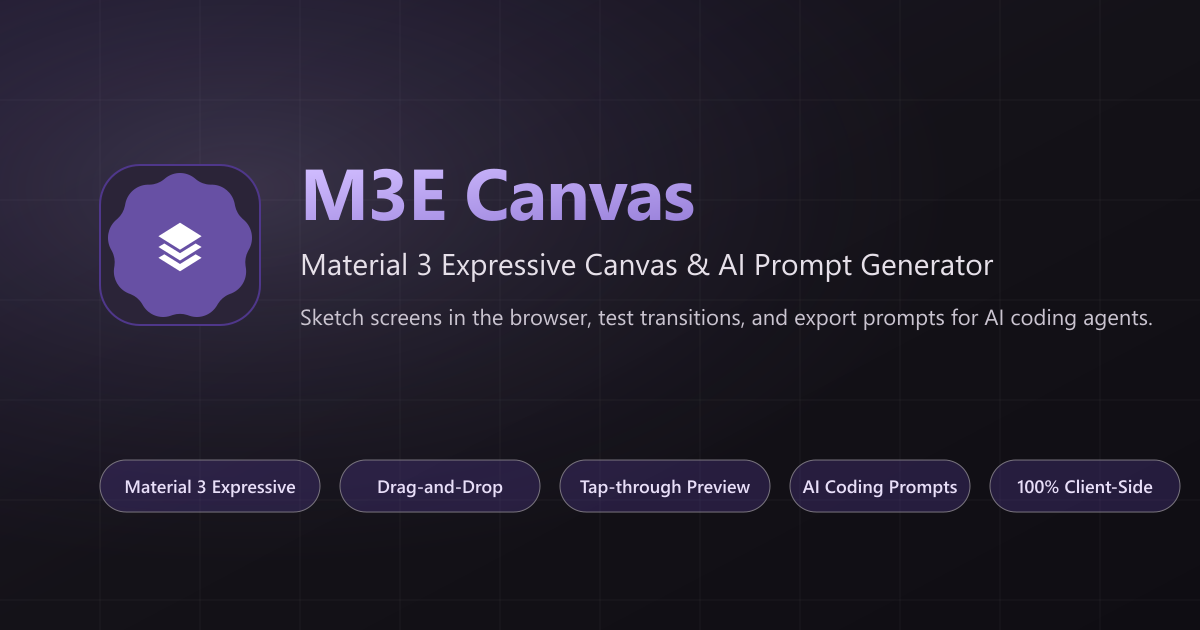
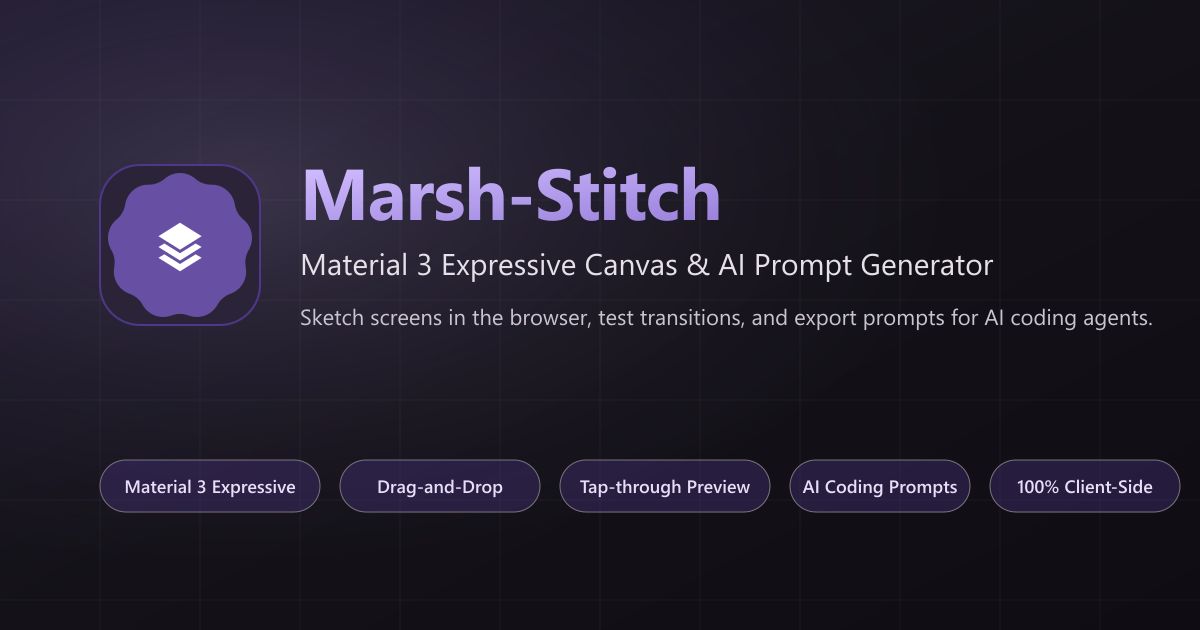
feat: rename tool to Marsh-Stitch across codebase and docs

Changed region(s): [[0.3083, 0.2714, 0.6167, 0.3619]]

diff --git a/lib/project.ts b/lib/project.ts
@@ -60,14 +60,14 @@ const validFrame = (frame: unknown) =>
 export const isProject = (value: unknown): value is Doc =>
   isRecord(value) && Array.isArray(value.groups) && Array.isArray(value.frames) && value.groups.every(validGroup) && value.frames.every(validFrame) && (value.platform === undefined || isPlatform(value.platform));
 
-/** the file name a project is saved under: m3e-canvas, followed by the app's name when it has one */
+/** the file name a project is saved under: marsh-stitch, followed by the app's name when it has one */
 export const projectFileName = (doc: Doc) => {
   const name = doc.title
     .trim()
     .replace(/[\\/:*?"<>|]+/g, " ")
     .replace(/\s+/g, " ")
     .trim();
-  return name ? `m3e-canvas ${name}.json` : "m3e-canvas.json";
+  return name ? `marsh-stitch ${name}.json` : "marsh-stitch.json";
 };
 
 /** hands the document to the browser as a JSON download */

diff --git a/lib/project.test.ts b/lib/project.test.ts
@@ -132,11 +132,11 @@ describe("isProject", () => {
 
 describe("projectFileName", () => {
   it.each([
-    ["", "m3e-canvas.json"], [" \t\n ", "m3e-canvas.json"],
-    ['\\/:*?"<>|', "m3e-canvas.json"],
-    ["  My\t app\n name  ", "m3e-canvas My app name.json"],
-    ['a\\b/c:d*e?f"g<h>i|j', "m3e-canvas a b c d e f g h i j.json"],
-    ["Design Project 🎨.v2", "m3e-canvas Design Project 🎨.v2.json"],
+    ["", "marsh-stitch.json"], [" \t\n ", "marsh-stitch.json"],
+    ['\\/:*?"<>|', "marsh-stitch.json"],
+    ["  My\t app\n name  ", "marsh-stitch My app name.json"],
+    ['a\\b/c:d*e?f"g<h>i|j', "marsh-stitch a b c d e f g h i j.json"],
+    ["Design Project 🎨.v2", "marsh-stitch Design Project 🎨.v2.json"],
   ])("sanitizes %j to %j", (title, expected) => {
     expect(projectFileName({ ...doc(), title })).toBe(expected);
   });

diff --git a/lib/i18n.ts b/lib/i18n.ts
@@ -100,7 +100,7 @@ export const UI = {
   askAiIdeaFallback: { en: "(describe what to build here)" },
   askAiCopy: { en: "Copy the instruction" },
   askAiText: {
-    en: "Make an M3E Canvas sketch. First read {url} and follow it: build the design as JSON and reply with a share link. If you cannot run code, reply with the JSON in a code block (it will be saved to a file and opened). No verification is needed.\n\nWhat to build: {idea}",
+    en: "Make a Marsh-Stitch sketch. First read {url} and follow it: build the design as JSON and reply with a share link. If you cannot run code, reply with the JSON in a code block (it will be saved to a file and opened). No verification is needed.\n\nWhat to build: {idea}",
   },
   askAiGenerate: { en: "Draft with AI" },
   askAiPasted: { en: "Paste it into your AI agent" },

diff --git a/app/layout.tsx b/app/layout.tsx
@@ -5,11 +5,11 @@ const BASE = process.env.NEXT_PUBLIC_BASE_PATH ?? "";
 
 export const metadata: Metadata = {
   metadataBase: new URL(process.env.NEXT_PUBLIC_SITE_ORIGIN ?? "https://mannie09.github.io"),
-  title: "M3E Canvas",
+  title: "Marsh-Stitch",
   description:
     "Sketch Material 3 Expressive screens in the browser and turn them into vibe-coding prompts.",
   openGraph: {
-    title: "M3E Canvas",
+    title: "Marsh-Stitch",
     description: "Design Material 3 Expressive screens, link them, preview them, and copy a prompt for your AI coding tool.",
     images: [`${BASE}/og.png`],
     type: "website",

diff --git a/lib/ai.ts b/lib/ai.ts
@@ -241,7 +241,7 @@ export function popHistory<V extends string, H extends string>(current: string |
  *  The answer is the document itself; a link would be pointless here. */
 export async function draftDesign(s: AiSettings, guide: string, idea: string, lang: Lang, signal?: AbortSignal): Promise<Doc> {
   const system = [
-    "You draft M3E Canvas designs. Follow the guide below exactly.",
+    "You draft Marsh-Stitch designs. Follow the guide below exactly.",
     "Reply with the JSON document only: no share link, no prose, no markdown fence, no explanation.",
     "",
     guide,

diff --git a/components/Toolbar.tsx b/components/Toolbar.tsx
@@ -10,7 +10,7 @@ import { t, useLang } from "@/lib/i18n";
 
 export type Mode = "select" | "hand";
 
-const REPO_URL = "https://github.com/mannie09/m3e-canvas";
+const REPO_URL = "https://github.com/mannie09/marsh-stitch";
 
 export function GitHubLink({ p, size = 40 }: { p: Palette; size?: number }) {
   return (

diff --git a/README.md b/README.md
@@ -2,16 +2,16 @@
   <img src="app/icon.svg" width="72" alt="" />
 </p>
 
-<h1 align="center">M3E Canvas</h1>
+<h1 align="center">Marsh-Stitch</h1>
 
 <p align="center">
   <strong>Sketch Material 3 Expressive screens in the browser, link them, tap through them, and copy a prompt for your AI coding tool.</strong>
 </p>
 
 <p align="center">
-  <a href="https://mannie09.github.io/m3e-canvas/"><img alt="Live demo" src="https://img.shields.io/badge/demo-mannie09.github.io%2Fm3e--canvas-6750A4?logo=googlechrome&logoColor=white" /></a>
-  <a href="https://github.com/mannie09/m3e-canvas/actions/workflows/deploy.yml"><img alt="Deploy" src="https://github.com/mannie09/m3e-canvas/actions/workflows/deploy.yml/badge.svg" /></a>
-  <a href="https://github.com/mannie09/m3e-canvas/stargazers"><img alt="GitHub stars" src="https://img.shields.io/github/stars/mannie09/m3e-canvas?style=flat&logo=github&color=6750A4" /></a>
+  <a href="https://mannie09.github.io/marsh-stitch/"><img alt="Live demo" src="https://img.shields.io/badge/demo-mannie09.github.io%2Fmarsh--stitch-6750A4?logo=googlechrome&logoColor=white" /></a>
+  <a href="https://github.com/mannie09/marsh-stitch/actions/workflows/deploy.yml"><img alt="Deploy" src="https://github.com/mannie09/marsh-stitch/actions/workflows/deploy.yml/badge.svg" /></a>
+  <a href="https://github.com/mannie09/marsh-stitch/stargazers"><img alt="GitHub stars" src="https://img.shields.io/github/stars/mannie09/marsh-stitch?style=flat&logo=github&color=6750A4" /></a>
   <a href="LICENSE"><img alt="MIT License" src="https://img.shields.io/badge/license-MIT-blue.svg" /></a>
   <a href="https://github.com/sponsors/mannie09"><img alt="Sponsor" src="https://img.shields.io/badge/sponsor-%E2%9D%A4-EA4AAA?logo=githubsponsors&logoColor=white" /></a>
   <img alt="Next.js" src="https://img.shields.io/badge/Next.js-16-black?logo=nextdotjs" />
@@ -21,7 +21,7 @@
 </p>
 
 <p align="center">
-  <a href="https://mannie09.github.io/m3e-canvas/"><strong>Open the app</strong></a>
+  <a href="https://mannie09.github.io/marsh-stitch/"><strong>Open the app</strong></a>
 </p>
 
 Works with any AI coding tool that takes a prompt, such as Claude Code, Codex, Gemini CLI or Cursor: copy the prompt, paste it into the tool, and ask for the app.
@@ -71,11 +71,11 @@ The app is a static Next.js export. To host it under a sub-path (for example a G
 
 ## Contributing
 
-Bug reports, part requests and pull requests are welcome. [CONTRIBUTING.md](CONTRIBUTING.md) explains the setup, the conventions (English comments) and where each kind of change lives. Questions go to [Discussions](https://github.com/mannie09/m3e-canvas/discussions).
+Bug reports, part requests and pull requests are welcome. [CONTRIBUTING.md](CONTRIBUTING.md) explains the setup, the conventions (English comments) and where each kind of change lives. Questions go to [Discussions](https://github.com/mannie09/marsh-stitch/discussions).
 
 ## Support
 
-M3E Canvas is free and MIT-licensed, and stays that way. If it saves you time, you can [sponsor the work on GitHub](https://github.com/sponsors/mannie09); it pays for the hours that go into new parts, the prompt, and reviewing contributions. No feature is behind sponsorship.
+Marsh-Stitch is free and MIT-licensed, and stays that way. If it saves you time, you can [sponsor the work on GitHub](https://github.com/sponsors/mannie09); it pays for the hours that go into new parts, the prompt, and reviewing contributions. No feature is behind sponsorship.
 
 Thanks to the sponsors who keep this going:
 

diff --git a/public/agent.md b/public/agent.md
@@ -1,6 +1,6 @@
-# M3E Canvas: sketches from an AI agent (beta)
+# Marsh-Stitch: sketches from an AI agent (beta)
 
-M3E Canvas (https://mannie09.github.io/m3e-canvas/) is a browser editor for Material 3 Expressive screens. A design is one JSON document. You, the agent, write that document and hand it back; the person opens it on their canvas, refines it, and turns it into a prompt for a coding tool.
+Marsh-Stitch (https://mannie09.github.io/marsh-stitch/) is a browser editor for Material 3 Expressive screens. A design is one JSON document. You, the agent, write that document and hand it back; the person opens it on their canvas, refines it, and turns it into a prompt for a coding tool.
 
 This format is in beta. Fields may be added; existing ones keep their meaning.
 
@@ -18,7 +18,7 @@ To make the link:
 import { readFileSync } from "node:fs";
 import { deflateRawSync } from "node:zlib";
 const json = readFileSync(process.argv[2], "utf8");
-console.log("https://mannie09.github.io/m3e-canvas/#docz=" + deflateRawSync(json).toString("base64url"));
+console.log("https://mannie09.github.io/marsh-stitch/#docz=" + deflateRawSync(json).toString("base64url"));
 ```
 
 ```python
@@ -27,10 +27,10 @@ import sys, zlib, base64
 data = open(sys.argv[1], "rb").read()
 c = zlib.compressobj(9, zlib.DEFLATED, -15)          # raw deflate, no header
 raw = c.compress(data) + c.flush()
-print("https://mannie09.github.io/m3e-canvas/#docz=" + base64.urlsafe_b64encode(raw).decode().rstrip("="))
+print("https://mannie09.github.io/marsh-stitch/#docz=" + base64.urlsafe_b64encode(raw).decode().rstrip("="))
 ```
 
-The link is long (a few thousand characters for a few screens). That is expected; it carries the whole design and nothing is stored anywhere. If you fetched this guide from a different address than `https://mannie09.github.io/m3e-canvas/agent.md`, build the link on that address instead (the app lives next to its guide).
+The link is long (a few thousand characters for a few screens). That is expected; it carries the whole design and nothing is stored anywhere. If you fetched this guide from a different address than `https://mannie09.github.io/marsh-stitch/agent.md`, build the link on that address instead (the app lives next to its guide).
 
 Keep the document under about 100 KB. An `image` part may carry `"src": "https://…"` pointing at a picture on the web; do not embed image data.
 

diff --git a/CONTRIBUTING.md b/CONTRIBUTING.md
@@ -1,4 +1,4 @@
-# Contributing to M3E Canvas
+# Contributing to Marsh-Stitch
 
 Thanks for your interest. This page explains how to report problems, propose
 changes and send code. 
@@ -10,7 +10,7 @@ changes and send code.
   issue first so we can agree on the shape of the change before you spend
   time on it. Material 3 Expressive has a specific vocabulary, and the prompt
   is tuned carefully; a short discussion up front saves rework.
-- **Questions and ideas**: use [Discussions](https://github.com/mannie09/m3e-canvas/discussions).
+- **Questions and ideas**: use [Discussions](https://github.com/mannie09/marsh-stitch/discussions).
 
 ## Setting up
 

diff --git a/SECURITY.md b/SECURITY.md
@@ -1,6 +1,6 @@
 # Security
 
-M3E Canvas is a static site. It has no server and no accounts; everything you draw
+Marsh-Stitch is a static site. It has no server and no accounts; everything you draw
 stays in your browser's local storage. The only network calls are loading fonts
 and, if you turn it on, the optional AI helper: with your own API key entered in
 the AI tab, the browser sends the generated description of your whole design
